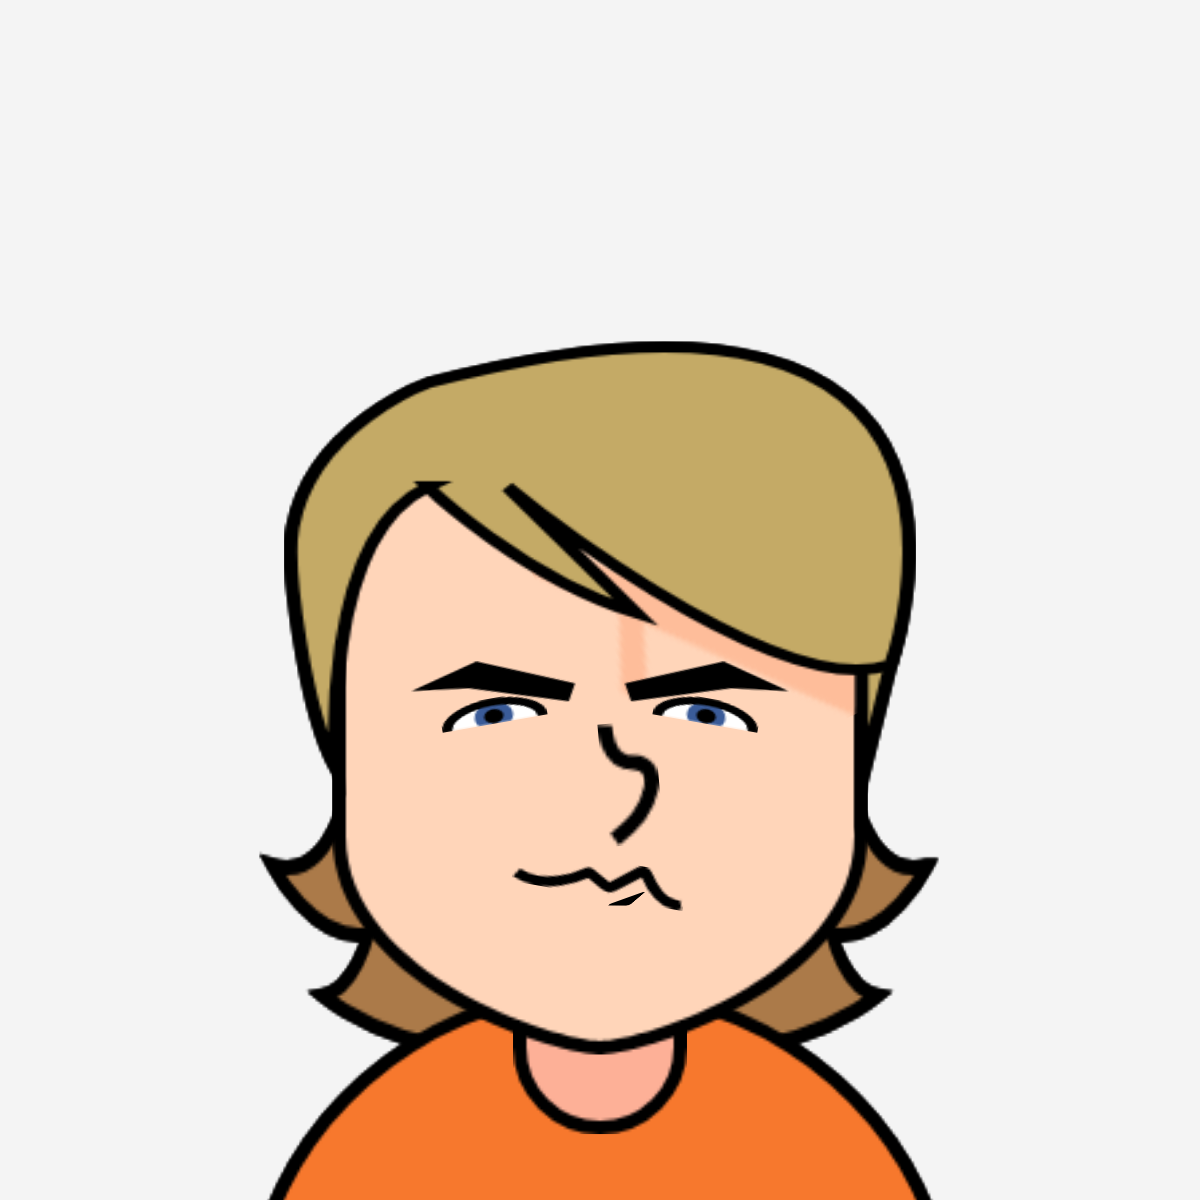
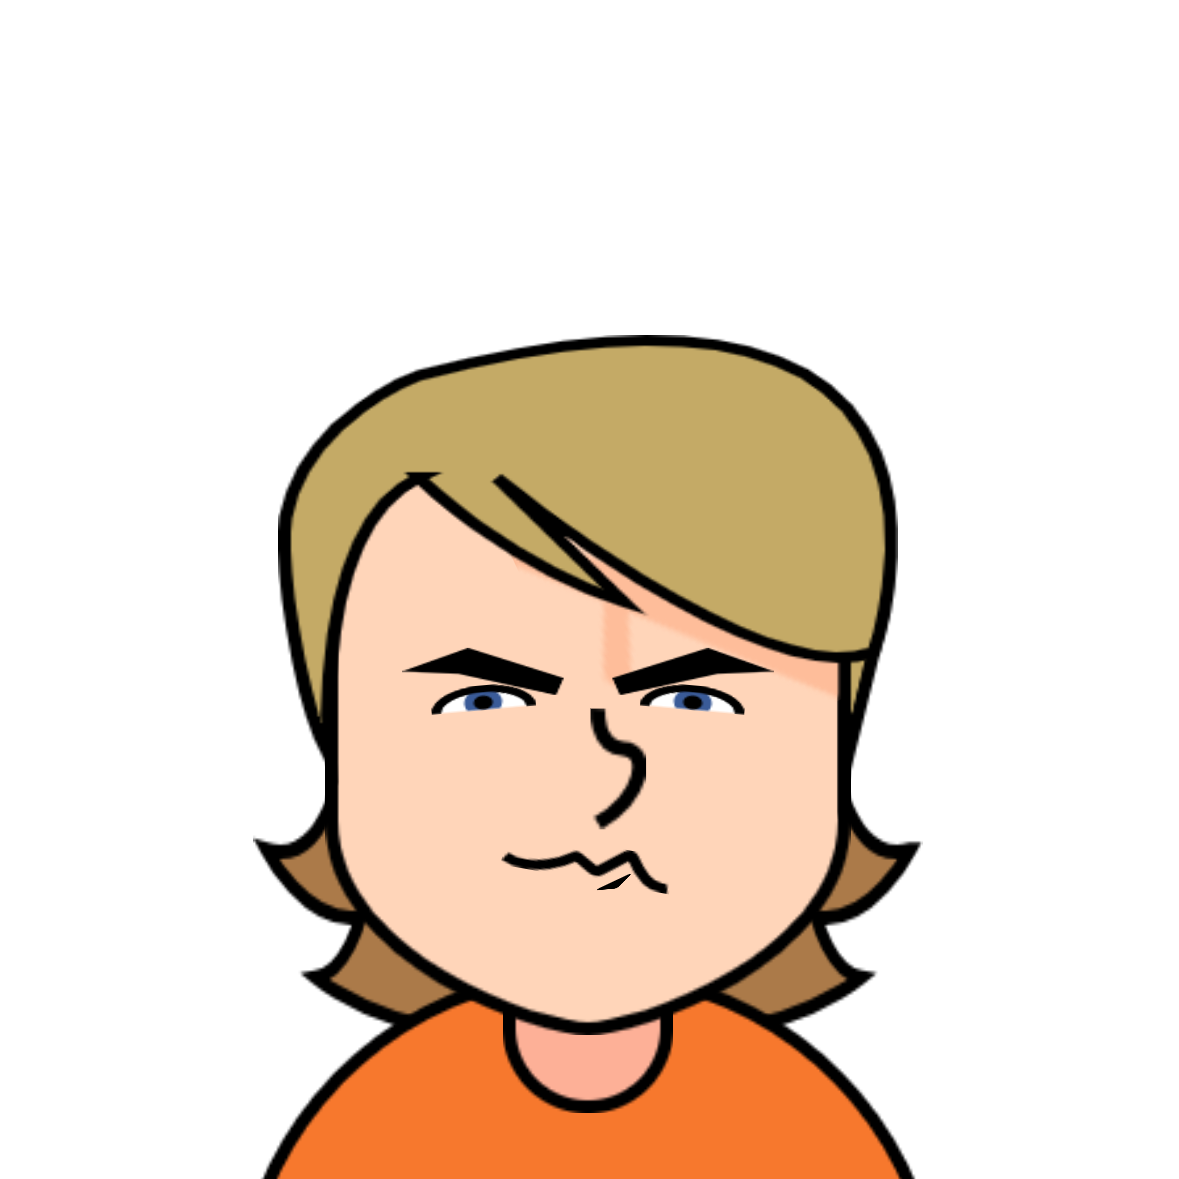
Added Samples and started DevLog

diff --git a/samples.html b/samples.html
@@ -1,0 +1,55 @@
+<!DOCTYPE html>
+<html lang="en">
+  <head>
+    <script src="https://cdn.jsdelivr.net/npm/p5@1.11.11/lib/p5.js"></script>
+    <script src="https://cdn.jsdelivr.net/npm/p5@1.11.11/lib/addons/p5.sound.min.js"></script>
+
+    <link rel="preconnect" href="https://fonts.googleapis.com">
+    <link rel="preconnect" href="https://fonts.gstatic.com" crossorigin>
+    <link href="https://fonts.googleapis.com/css2?family=Bai+Jamjuree:ital,wght@0,200;0,300;0,400;0,500;0,600;0,700;1,200;1,300;1,400;1,500;1,600;1,700&display=swap" rel="stylesheet">
+    
+    <link rel="stylesheet" type="text/css" href="style.css">
+    <link rel="stylesheet" type="text/css" href="centerall.css">
+    <meta charset="utf-8" />
+
+    <title>Sample Codes</title>
+
+  </head>
+  <body>
+    <main>
+        <h1> <a href="index.html" style="text-decoration: none; color: inherit;">FriendLibrary</a> <span style="color: #888888;">Sample Codes</span></h1>
+    </main>
+    <script src="samples.js"></script>
+
+    <div class="content">
+        
+        <div class="friendCodeContainer">
+        <h3>Colin</h3>
+        <p>The creator of the site. This friend uses some of miscellaneous parts like the goatee and scar in unorthodox ways, creating a bottom lip and hair shadow respectively.</p>
+        <img src="assets/stock/Colin.png" alt="Created Friend - Male and White with Blond Hair, represents site owner"/>
+        <code id="colinCode" class="friendCode">V1|Colin|07312003|32|0a|#ffd5b9|1o1o1o1o0a|0a|#c4aa66|1o1e1o1o0a|0g|#ab7a49|1j1t1o0a0a|0d|#3a5b98|190z1e0u-dv|0e|#ffffff|190z1e1o05|0a|#ffffff|1t1t230f05|0g|#ffffff|1j191o0ksc|0d|#000000|0p0a1r1j-1xq|0e|#febd9a|32321z0p-8vi|0a|#fdb097|1o1o1o1o0a|0a|#f7782d|1o1o1o1o0a|</code>
+        <button onclick="copyCode('colinCode')">Copy Friend Code</button>
+        </div>
+
+        <div class="friendCodeContainer">
+        <h3>Sample Friend #1</h3>
+        <p>One of the friends created to showcase the power of the FriendLibrary Creator. This Friend uses the misc. parts in similar ways to the last, including using the goatee as a mole under the left eye.</p>
+        <img src="assets/stock/Brad.png" alt="Created Friend - Male and White with Olive Hair"/>
+        <code id="sampleCode1" class="friendCode">V1|Brad|08052006|0a|0e|#ffd2c6|1o1o1o1o0a|0a|#bbb591|1j191o1e0a|0g|#959672|191o1o1j0a|0c|#804000|1e141e14-rs|0e|#ffffff|190u1e1y-15t|0c|#ffffff|2x231s1o6mw|0a|#ffd2c6|230z1o1y0a|0d|#000000|0p0a1o1v0a|0d|#000000|0f0f1c1a3ij|0a|#ffc9bb|1o1o1o1o0a|0a|#516aae|1o1o1o1o0a|</code>
+        <button onclick="copyCode('sampleCode1')">Copy Friend Code</button>
+        </div>
+
+        <div class="friendCodeContainer">
+        <h3>Sample Friend #2</h3>
+        <p>This sample friend shows the versatility of the various objects at your disposal with the creator. The closed eyes were originally upright thin ones, and the bow in her hair can also easily be used as a bowtie! Try to look at the available tools in ways you may have not initially thought of!</p>
+        <img src="assets/stock/Tabia.png" alt="Created Friend - Female and Black with Dark Purple Hair"/>
+        <code id="sampleCode2" class="friendCode">V1|Tabia|11192006|2d|0a|#985812|1o1o1o1o0a|0c|#4e0354|1o191o0z0a|0d|#400040|1y281o1y0a|0i|#000000|1j1j14195go|0a|#ffffff|0z0z191o0f|0d|#ffffff|19141n1o0a|0h|#ffffff|1y1t191j168|0o|#ff9fcf|1o1o0u0m-33y|0m|#8e301c|1o1i1o1a0a|0a|#884611|1o1o1o1o0a|0a|#ff2d96|1o1o1o1o0a|</code>
+        <button onclick="copyCode('sampleCode2')">Copy Friend Code</button>
+        </div>
+
+        <br></br>
+
+    </div>
+
+  </body>
+</html>

diff --git a/love.js b/love.js
@@ -38,10 +38,10 @@ let friendCode;
 
 const BASE_DESIGN_SIZE = 350;
 
-let overallCompatability = 50;
-let zodiacCompatability = 75;
-let numerologyCompatability = 25;
-let ageCompatability = 100;
+let overallCompatability = 0;
+let zodiacCompatability = 0;
+let numerologyCompatability = 0;
+let ageCompatability = 0;
 
 function setup() {
     let s = calculateCanvasSize();
@@ -138,6 +138,8 @@ function draw() {
 
     friend1Renderer.overrideBackground = true;
     friend2Renderer.overrideBackground = true;
+    friend1Renderer.clearBackground = false;
+    friend2Renderer.clearBackground = false;
 
     push();
     friend1Renderer.show([halfWidth, height]);
@@ -255,6 +257,26 @@ function checkCompatability() {
     updateBars();
 }
 
+// Coded By AI :()
+function animateNumber(element, targetValue) {
+    let currentValue = parseInt(element.innerHTML) || 0;
+    let duration = 1500;
+    let start = null;
+
+    function step(timestamp) {
+        if (!start) start = timestamp;
+        let progress = Math.min((timestamp - start) / duration, 1);
+
+        let currentDisplay = Math.floor(progress * (targetValue - currentValue) + currentValue);
+        element.innerHTML = currentDisplay + "%";
+        
+        if (progress < 1) {
+            window.requestAnimationFrame(step);
+        }
+    }
+    window.requestAnimationFrame(step);
+}
+
 function updateBars() {
     let friend1Label = document.getElementById("friend1Label");
     friend1Label.innerHTML = friend1.name;
@@ -271,12 +293,12 @@ function updateBars() {
     var ageTextElem = document.getElementById("ageGapNum");
 
     overallElem.style.width = Math.round(overallCompatability) + "%";
-    overallTextElem.innerHTML = Math.round(overallCompatability) + "%";
+    animateNumber(overallTextElem, Math.round(overallCompatability));
     let factor34 = 2.94117647059;
     zodiacElem.style.width = (zodiacCompatability * factor34) + "%";
-    zodiacTextElem.innerHTML = Math.round((zodiacCompatability * factor34)) + "%";
+    animateNumber(zodiacTextElem, Math.round(zodiacCompatability * factor34));
     numerologyElem.style.width = Math.round((numerologyCompatability * factor34)) + "%";
-    numerologyTextElem.innerHTML = Math.round((numerologyCompatability * factor34)) + "%";
+    animateNumber(numerologyTextElem, Math.round(numerologyCompatability * factor34));
     ageElem.style.width = Math.round((ageCompatability * 3.125)) + "%";
-    ageTextElem.innerHTML = Math.round((ageCompatability * 3.125)) + "%";
+    animateNumber(ageTextElem, Math.round(ageCompatability * 3.125));
 }

diff --git a/friend.js b/friend.js
@@ -64,7 +64,7 @@ class Friend {
                     this.partStates[partOrder[part]][aspectArray[aspectIndex]] = (this.convertTo10(codeArray[codei].substring(substringCounter, substringCounter + 2)) - 10) / 100;
                     substringCounter += 2;
                 }
-                this.partStates[partOrder[part]]["rotationDegrees"] = (this.convertTo10(codeArray[codei].substring(substringCounter, (substringCounter + 2) )) - 10) / 100;
+                this.partStates[partOrder[part]]["rotationDegrees"] = (this.convertTo10(codeArray[codei].substring(substringCounter)) - 10) / 100;
             }
             codei += 1;
         }
@@ -93,6 +93,7 @@ class FriendRenderer {
         this.bgSpeed = 1;
         this.backgroundColor = this.MIN_BG_COLOR;
         this.overrideBackground = false;
+        this.clearBackground = true;
 
         this.friend = friend;
         this.headHeightRange = this.friend.HEAD_HEIGHT_RANGE;
@@ -139,12 +140,11 @@ class FriendRenderer {
         
         push();
         
-
         if (!this.overrideBackground) {
             noStroke();
             fill(this.backgroundColor);
             rect(canvasDimensions[0]/2, canvasDimensions[1]/2, canvasDimensions[0], canvasDimensions[1]); 
-        } else {
+        } else if (this.clearBackground) {
             clear();
         }
 

diff --git a/love.html b/love.html
@@ -28,7 +28,7 @@
     <h3>Overall Compatability</h3>
     <div id="overall" class="bar">
       <div id="overallProgress" class="progress overallProgress"></div>
-      <p id="overallNum" class="progressNum">100%</p>
+      <p id="overallNum" class="progressNum">0%</p>
     </div>
 
 
@@ -52,19 +52,19 @@
       <h3>Zodiac</h3>
       <div id="zodiac" class="bar">
         <div id="zodiacProgress" class="progress zodiacProgress"></div>
-        <p id="zodiacNum" class="progressNum">100%</p>
+        <p id="zodiacNum" class="progressNum">0%</p>
       </div>
 
       <h3>Numerology</h3>
       <div id="numerology" class="bar">
         <div id="numerologyProgress" class="progress numerologyProgress"></div>
-        <p id="numerologyNum" class="progressNum">100%</p>
+        <p id="numerologyNum" class="progressNum">0%</p>
       </div>
 
       <h3>Age Similarity</h3>
       <div id="ageGap" class="bar">
         <div id="ageGapProgress" class="progress ageGapProgress"></div>
-        <p id="ageGapNum" class="progressNum">100%</p>
+        <p id="ageGapNum" class="progressNum">0%</p>
       </div>
 
     </div>

diff --git a/index.css b/index.css
@@ -40,6 +40,59 @@ body {
     background-color: #e226ff;
 }
 
+.greyButtonWrapper {
+    background-color: #888888;
+}
+
+.greyButtonWrapper:hover {
+    background-color: #ffffff;
+}
+
+.greyButtonWrapper:hover .creatorButtonText {
+    color: #888888;
+}
+
+.sideBySide {
+    display: flex;
+    flex-direction: row;
+    width: 90%;
+    max-width: 500px;
+}
+
+.sideBySide a{
+    display: block;
+    text-decoration: none;
+    color: inherit;
+
+    position: relative;
+    width: 50%;
+    max-width: 500px;
+    min-width: 100px;
+    min-height: 140px;
+
+    overflow: hidden;
+    border: 2px solid #ddd;
+    border-radius: 12px;
+    transition: background-color 1s ease;
+    cursor: pointer;
+}
+
+.sideBySide a img {
+    position: absolute;
+    bottom: 0;
+
+    width: 60%;
+    min-width: 100px;
+    max-width: 120px;
+
+    transform: translateY(100%);
+    transition: transform 0.3 cubic-bezier(0.175, 0.9, 0.32, 1.2);
+}
+
+.sideBySide a:hover .sideIMG {
+    transform: translateY(-5%) scale(1.1);;
+}
+
 .creatorButtonWrapper:hover {
     background-color: #ffffff;
 }

diff --git a/about.html b/about.html
@@ -1,0 +1,30 @@
+<!DOCTYPE html>
+<html lang="en">
+  <head>
+    <script src="https://cdn.jsdelivr.net/npm/p5@1.11.11/lib/p5.js"></script>
+    <script src="https://cdn.jsdelivr.net/npm/p5@1.11.11/lib/addons/p5.sound.min.js"></script>
+
+    <link rel="preconnect" href="https://fonts.googleapis.com">
+    <link rel="preconnect" href="https://fonts.gstatic.com" crossorigin>
+    <link href="https://fonts.googleapis.com/css2?family=Bai+Jamjuree:ital,wght@0,200;0,300;0,400;0,500;0,600;0,700;1,200;1,300;1,400;1,500;1,600;1,700&display=swap" rel="stylesheet">
+    
+    <link rel="stylesheet" type="text/css" href="style.css">
+    <link rel="stylesheet" type="text/css" href="centerall.css">
+    <meta charset="utf-8" />
+
+    <title>Devlog</title>
+
+  </head>
+  <body>
+    <main>
+        <h1> <a href="index.html" style="text-decoration: none; color: inherit;">FriendLibrary</a> <span style="color: #888888;">Devlog</span></h1>
+    </main>
+
+    <div class="content">
+
+    </div>
+
+    <p>Coming Soon!</p>
+
+  </body>
+</html>

diff --git a/centerall.css b/centerall.css
@@ -1,0 +1,54 @@
+body {
+    margin: 0;
+    padding: 0;
+    
+    min-height: 100vh;
+    width: 100%;
+    
+    display: flex;
+    flex-direction: column;
+
+    justify-content: start;
+    align-items: center; 
+    
+    background-color: #f4f4f4;
+}
+
+.content {
+    width: 90%;
+    max-width: 500px;
+    display: flex;
+    flex-direction: column;
+    align-items: center;
+    text-align: left;
+}
+
+.friendCode {
+    word-break: break-all; /* Allows the string to break at any character */
+    overflow-wrap: break-word; /* A fallback to ensure it stays in bounds */
+    
+    background: #eee;
+    padding: 10px;
+    border-radius: 4px;
+    min-width: 100px;
+}
+
+.friendCodeContainer {
+    display: flex;
+    flex-direction: column;
+    max-width: 500px;
+    flex-wrap: wrap;
+}
+
+.friendCodeContainer h3 {
+    margin-bottom: 0%;
+}
+
+.friendCodeContainer p {
+    margin-bottom: 0%;
+}
+
+.friendCodeContainer img {
+    width: 25%;
+    min-width: 200px;
+}

diff --git a/index.html b/index.html
@@ -41,6 +41,17 @@
       <span class="creatorButtonText">Affinity Tester</span>
     </a>
 
+    <div class="sideBySide">
+    <a class="greyButtonWrapper" href="about.html">
+      <img src="assets/stock/Colin.png" class="sideIMG firstIMG" alt="Created Friend - Male and White with Blond Hair, represents site owner"/>
+      <span class="creatorButtonText">Devlog</span>
+    </a>
+
+    <a class="greyButtonWrapper" href="samples.html">
+      <span class="creatorButtonText">Samples</span>
+    </a>
+    </div>
+
     <p>Site by Colin Day - In Progress!</p>
   </body>
 </html>

diff --git a/samples.js b/samples.js
@@ -1,0 +1,11 @@
+function copyCode(friendSpan) {
+    var copySpan = document.getElementById(friendSpan);
+    const copyText = copySpan.innerText
+    navigator.clipboard.writeText(copyText)
+        .then(() => {
+            alert("Copied: " + copyText);
+        })
+        .catch(err => {
+            alert("Could not copy code, please select by hand");
+        });
+    }

diff --git a/love.css b/love.css
@@ -49,4 +49,5 @@ body {
     background-color: #e226ff;
     height: 50px;
     width: 1%;
+    transition: width 02s cubic-bezier(0.25, 1, 0.5, 1);
 }
